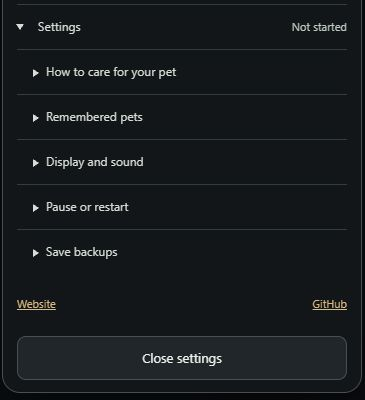
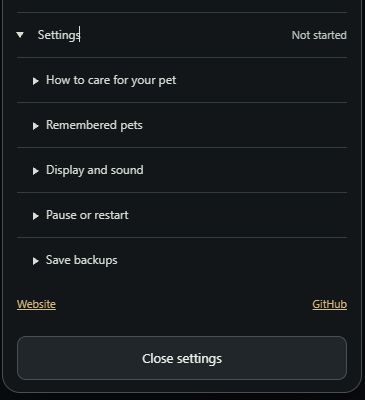
tighten footer spacing

diff --git a/widget/shell.css b/widget/shell.css
@@ -65,5 +65,5 @@ summary::before{content:'';display:inline-block;width:0;height:0;border-top:4px 
 details[open]>summary::before{transform:rotate(90deg)}
 .save-help>summary{justify-content:flex-start}.save-help>summary::before{flex:none}.save-help>summary .status{margin-left:auto}
 .save-help details>summary{padding-inline-start:16px}
-footer{display:flex;align-items:center;justify-content:space-between;gap:16px}
+footer{display:flex;align-items:center;justify-content:space-between;gap:16px;margin-top:2px}
 .backup-help{font-size:11px;color:#aeb9ae}.settings-group>div,.settings-group>.backup-help{margin-inline:10px}
